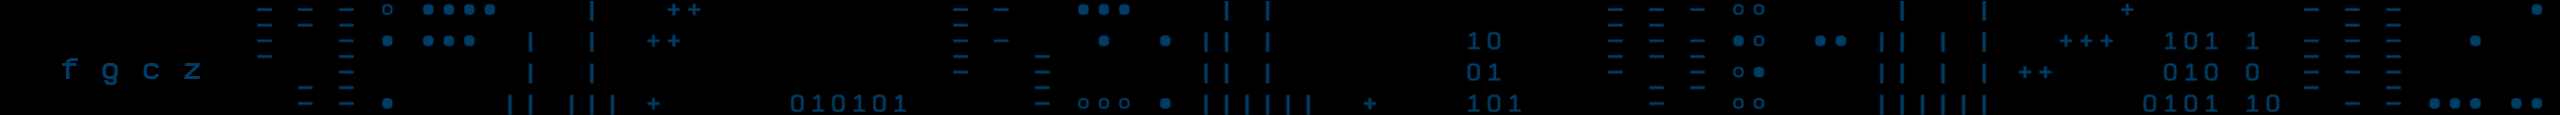
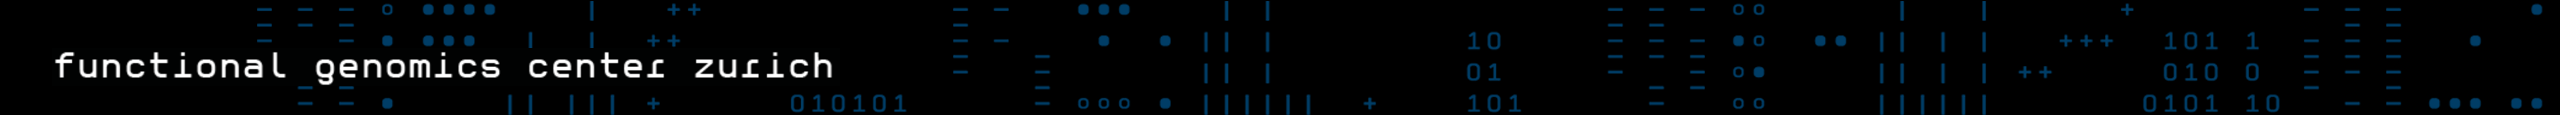
make header and title more lightweight

Changed region(s): [[0.0, 0.4435, 0.3438, 0.7304]]

diff --git a/inst/templates/fgcz.css b/inst/templates/fgcz.css
@@ -14,6 +14,10 @@ body {
  line-height: 20px ; 
 }   
 
+h1 {
+  font-size: 8px;
+}
+
 pre code, pre, code {
   white-space: pre !important;
   overflow-x: scroll !important;
